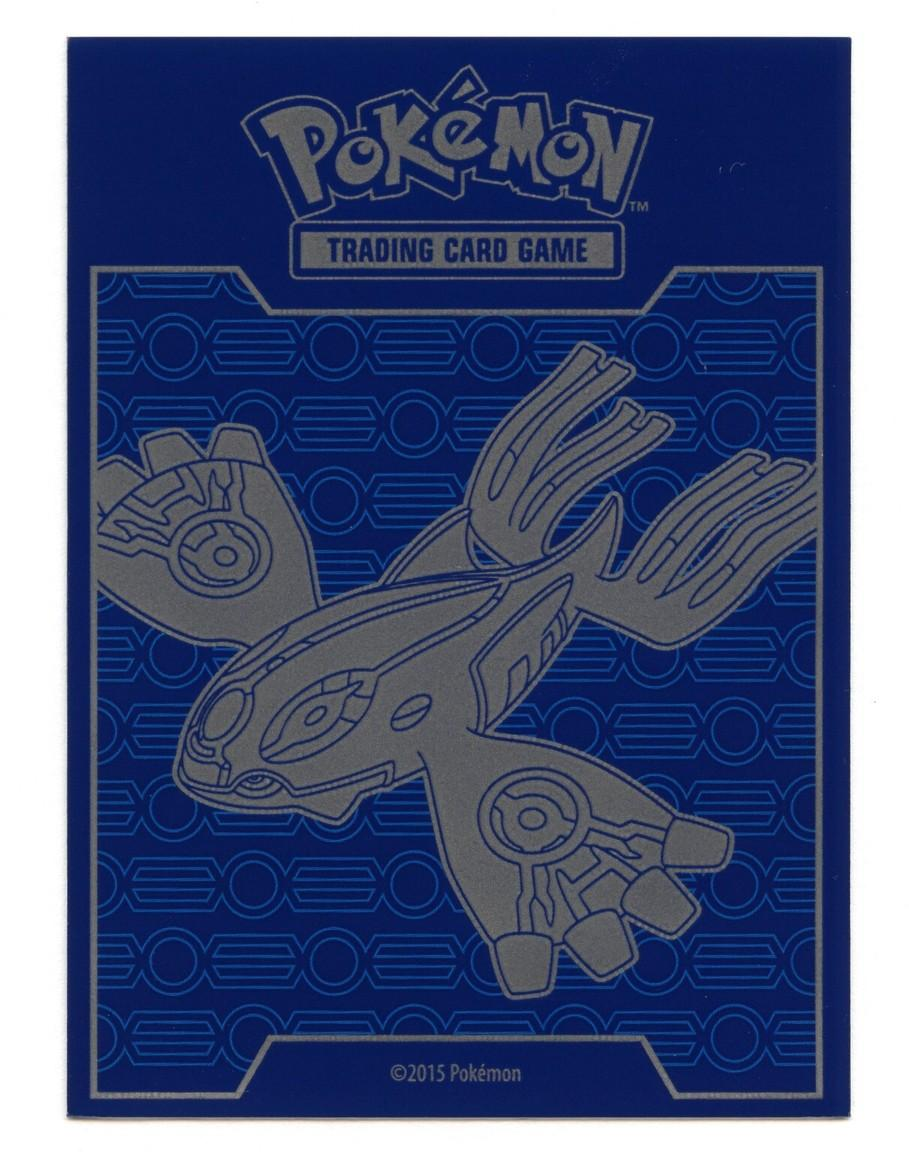
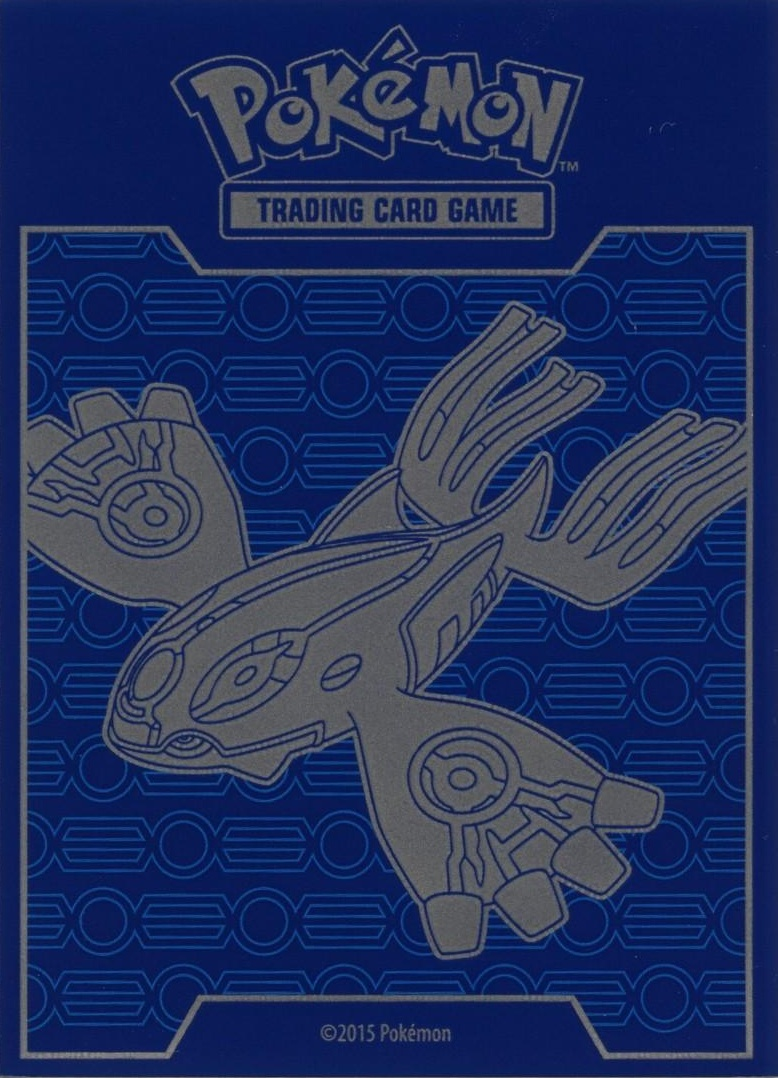
fix(sleeves): crop white scan margins off the Primal Kyogre sleeve
909x1160 -> 778x1078, cut 3px inside the blue edge so no white fringe
remains; now card-proportioned (0.72) so it fills the card back.

diff --git a/.agent/journal/2026-09.md b/.agent/journal/2026-09.md
@@ -1478,3 +1478,6 @@ S136 2026-09-15 feature(holo): TCG Live-style holofoil (design 010, D34). Fixed 
   :after soft-light (was exclusion), glare soft white→transparent (was hard-light grey), dead duplicate glare rule removed.
   Round 5 (too weak overall): LIGHT pan 13/17 → 20/24, DRIFT 0.6 → 0.8, gold/SIR shine opacity 1 + saturate 1.5 contrast 1.15,
   glitter up, full-art shine brighter/contrastier, default sparkle 0.7.
+  Merged as PR #130 (9729902). Primary checkout's stray uncommitted holo edits saved to branch wip/primary-holo-edits (424c314).
+S136b 2026-09-15 patch(sleeves): cropped white scan margins off Primal_Kyogre_ETB_Sleeve.jpg (909x1160 → 778x1078, 3px inside the
+  blue edge, no skew). Pushed straight to main at user's request (no PR).

diff --git a/.agent/STATE.md b/.agent/STATE.md
@@ -39,6 +39,7 @@ Blocked: none.
   checking the host's Access-Control-Allow-Origin header.
 
 ## Recently shipped (≤3 one-liners; anything older lives in the journal)
-- S136 2026-09-15 feature: TCG Live-style holofoil (fixed light, ink mask) — built, uncommitted.
+- S136 2026-09-15 feature: TCG Live-style holofoil (fixed light, ink mask) — PR #130, merged 9729902.
+  + patch: Primal Kyogre sleeve cropped (no white margins), pushed to main directly.
 - S135 2026-09-15 feature: ability-guidance accuracy + Mega/Primal Spirit Link turn-end rule.
 - S134 2026-09-15 feature: CSV deck export/import now carries sleeve+coin. Pushed 3883471.
